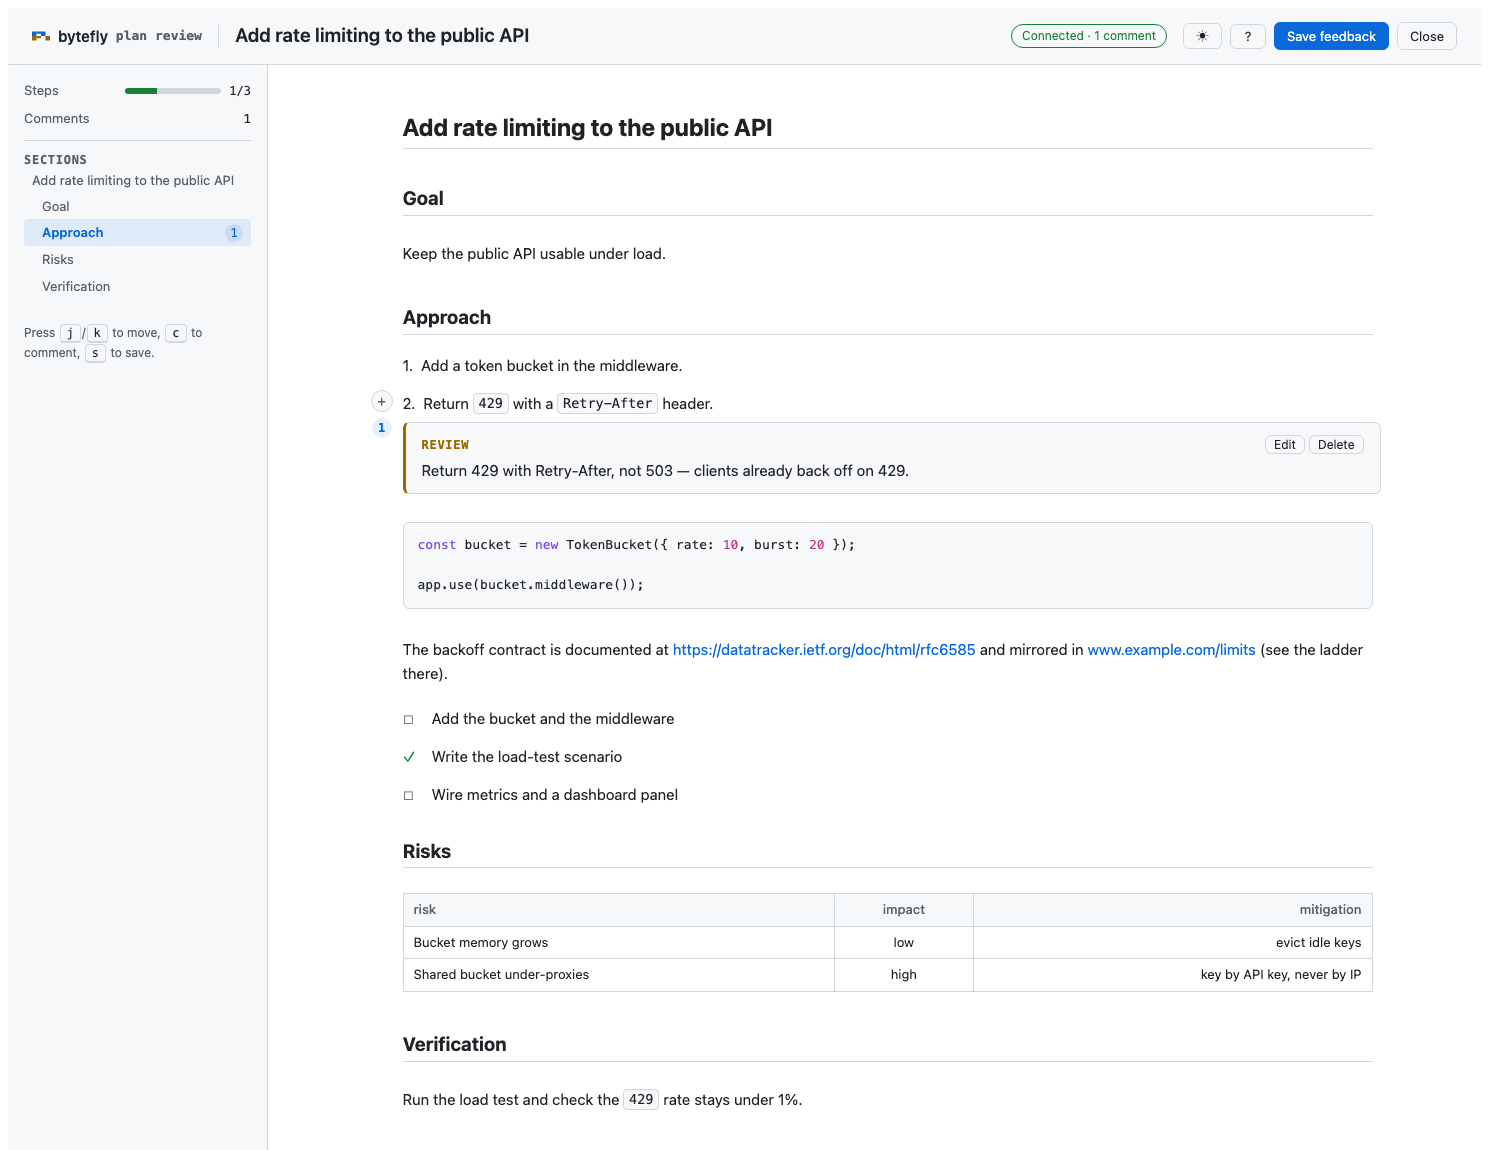
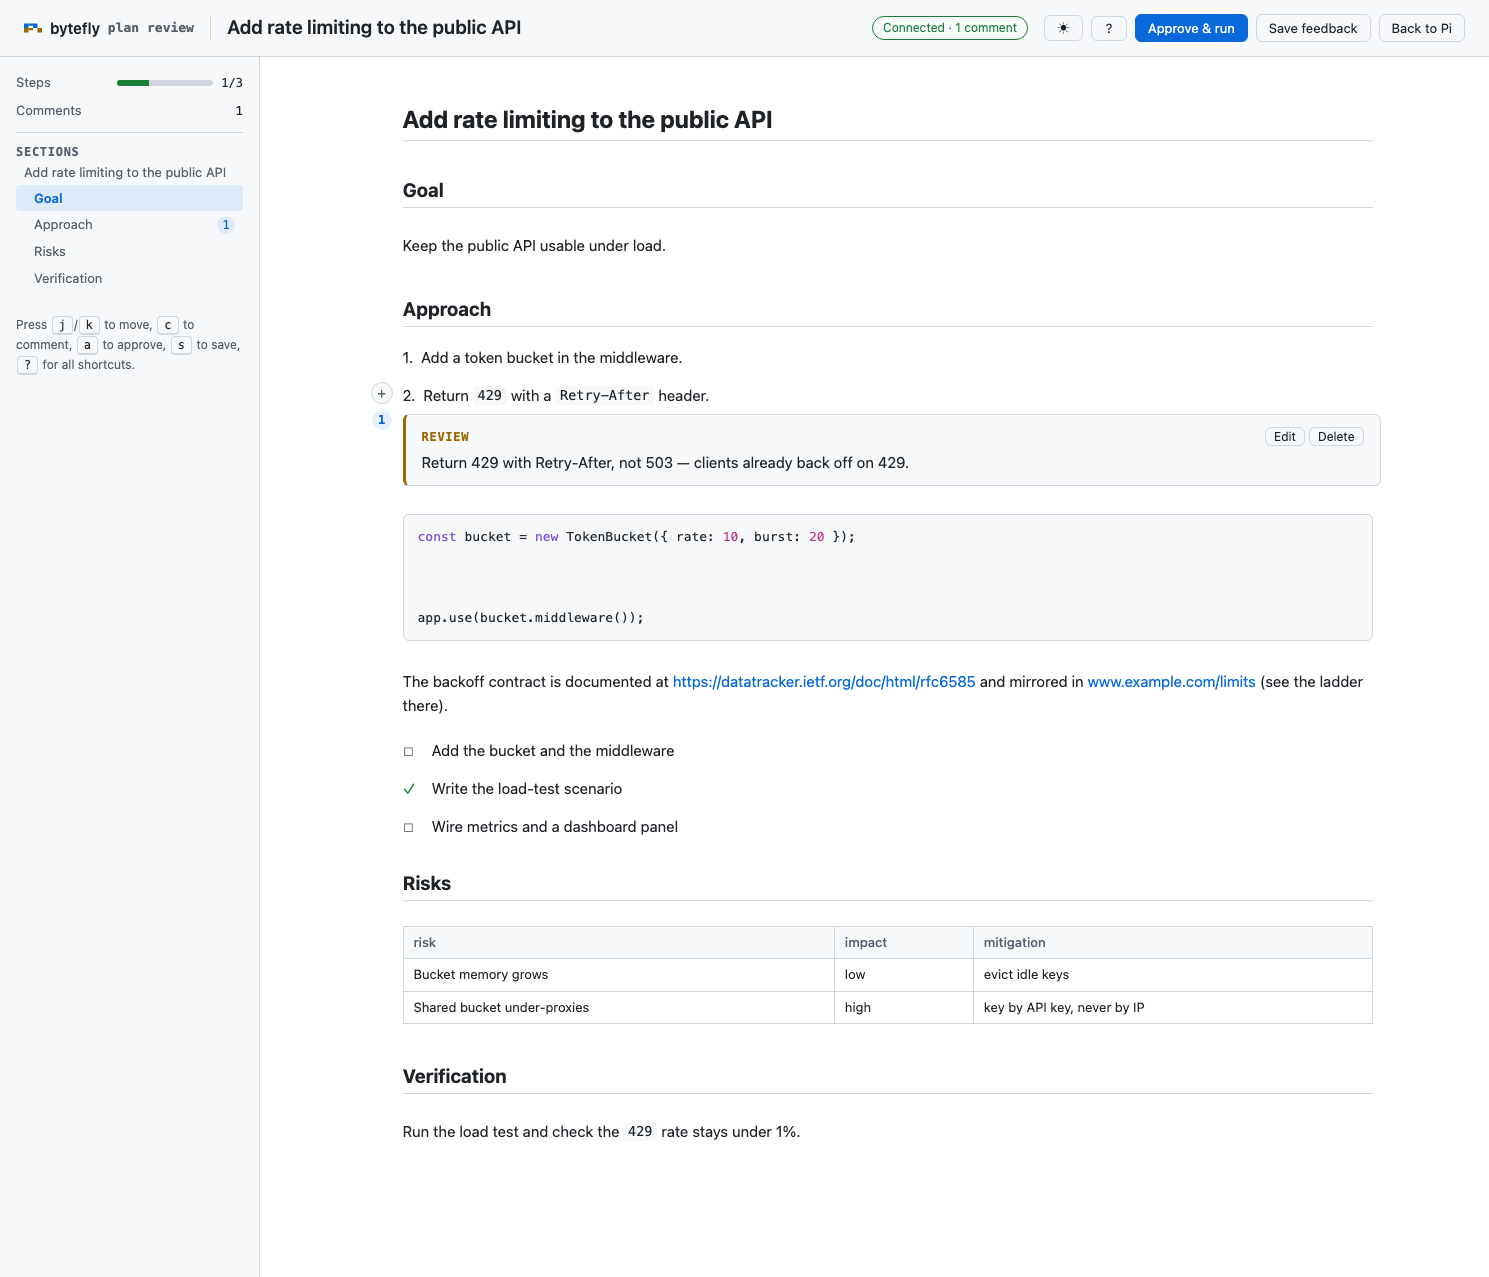
fix(plan): keep the review sidebar hint in step with the keys
The browser review's sidebar listed only j/k, c, and s, but approval moved
onto the page in 5b79a30 without updating that line. Derive it from
canApprove so an approval review also names a, and end it with "? for all
shortcuts" so the next binding does not need another edit. Refresh the
README capture, which still showed the old hint and the pre-approve header.

diff --git a/extensions/plan/web-page.ts b/extensions/plan/web-page.ts
@@ -172,6 +172,16 @@ ${WEB_COMPONENTS_CSS}
 @media (hover:none){.bf-block__add{opacity:1}}
 `.trim();
 
+/**
+ * The sidebar's one-line keyboard reminder. It names the keys a reviewer reaches
+ * for first and defers to the shortcut sheet (`?`) for the rest, so the line does
+ * not have to grow every time a binding is added.
+ */
+function reviewHints(canApprove: boolean): string {
+	const approve = canApprove ? `, <kbd class="review-kbd">a</kbd> to approve` : "";
+	return `<p class="review-hints">Press <kbd class="review-kbd">j</kbd>/<kbd class="review-kbd">k</kbd> to move, <kbd class="review-kbd">c</kbd> to comment${approve}, <kbd class="review-kbd">s</kbd> to save, <kbd class="review-kbd">?</kbd> for all shortcuts.</p>`;
+}
+
 /** The keyboard sheet, hidden until the client opens it. */
 function keysDialog(canApprove: boolean): string {
 	const approveRow = canApprove
@@ -208,7 +218,7 @@ export function renderReviewPage(data: ReviewPageData): string {
 <div class="bf-panel review-panel">
 ${reviewFacts()}
 <nav class="review-nav" aria-labelledby="outline-title"><p class="review-nav__title" id="outline-title">Sections</p><ul id="outline-list"></ul></nav>
-<p class="review-hints">Press <kbd class="review-kbd">j</kbd>/<kbd class="review-kbd">k</kbd> to move, <kbd class="review-kbd">c</kbd> to comment, <kbd class="review-kbd">s</kbd> to save.</p>
+${reviewHints(data.canApprove)}
 </div>
 </details>
 `

diff --git a/extensions/plan/web-page.test.ts b/extensions/plan/web-page.test.ts
@@ -111,6 +111,20 @@ describe("renderReviewPage", () => {
 		expect(html).toContain('id="progress-fill"');
 	});
 
+	test("spells the sidebar hints and defers to the shortcut sheet", () => {
+		const html = page();
+		expect(html).toContain('<p class="review-hints">');
+		expect(html).toContain('<kbd class="review-kbd">a</kbd> to approve');
+		expect(html).toContain('<kbd class="review-kbd">?</kbd> for all shortcuts');
+	});
+
+	test("drops the approve hint from the sidebar on a comment-only review", () => {
+		const html = page({ canApprove: false });
+		expect(html).toContain("to comment, <kbd");
+		expect(html).not.toContain("to approve");
+		expect(html).toContain("for all shortcuts");
+	});
+
 	test("shows the review facts and the keyboard sheet", () => {
 		const html = page();
 		expect(html).toContain('id="review-facts"');

diff --git a/extensions/plan/README.md b/extensions/plan/README.md
@@ -256,15 +256,15 @@ agent file that overrides it.
 
 ## Browser review
 
-<img src="../../assets/plan-review.png" alt="The browser-based plan review: a sticky header with the plan title and Save/Close, a side panel with step progress and a section outline, and the plan as one measured column with a comment rail and an inline review thread" width="100%">
+<img src="../../assets/plan-review.png" alt="The browser-based plan review: a sticky header with the plan title, a status chip, and the Approve & run, Save feedback, and Back to Pi actions, a side panel with step progress and a section outline, and the plan as one measured column with a comment rail and an inline review thread" width="100%">
 
 Press `w` on the review screen — or run `/plan review [path]` — to open the plan
 in the default browser on `127.0.0.1`. The page is a reading-first review
 surface: a sticky header carrying the plan's H1 (falling back to the file-name
 slug), a live status chip (connection, comment count, and unsaved changes), the
-theme toggle, and Save/Close, over a hairline reading-progress bar. A sticky
-side panel shows the plan's step progress and comment count above a **section
-outline**, and the document is GitHub's Markdown content column — one centred
+theme toggle, and the review actions, over a hairline reading-progress bar. A
+sticky side panel shows the plan's step progress and comment count above a
+**section outline**, and the document is GitHub's Markdown content column — one centred
 measure of at most 1012px with a comment rail in its left margin. Every block
 reveals a **+ Comment** action on hover; select
 text first to quote it. **Save feedback** writes the comments into the plan

diff --git a/CHANGELOG.md b/CHANGELOG.md
@@ -55,6 +55,9 @@ to [Semantic Versioning](https://semver.org/spec/v2.0.0.html).
 
 ### Fixed
 
+- `plan`: the browser review's sidebar hint now names `a` on a review that can
+  approve and points at `?` for the full shortcut list, instead of listing only
+  `j`/`k`/`c`/`s` after approval moved onto the page.
 - `plan`: a list item's continuation lines now hang under the item's text in the
   browser review. A hard-wrapped or lazy-continued line was emitted as a bare
   paragraph at the block's left margin, so a multi-line step read as several
